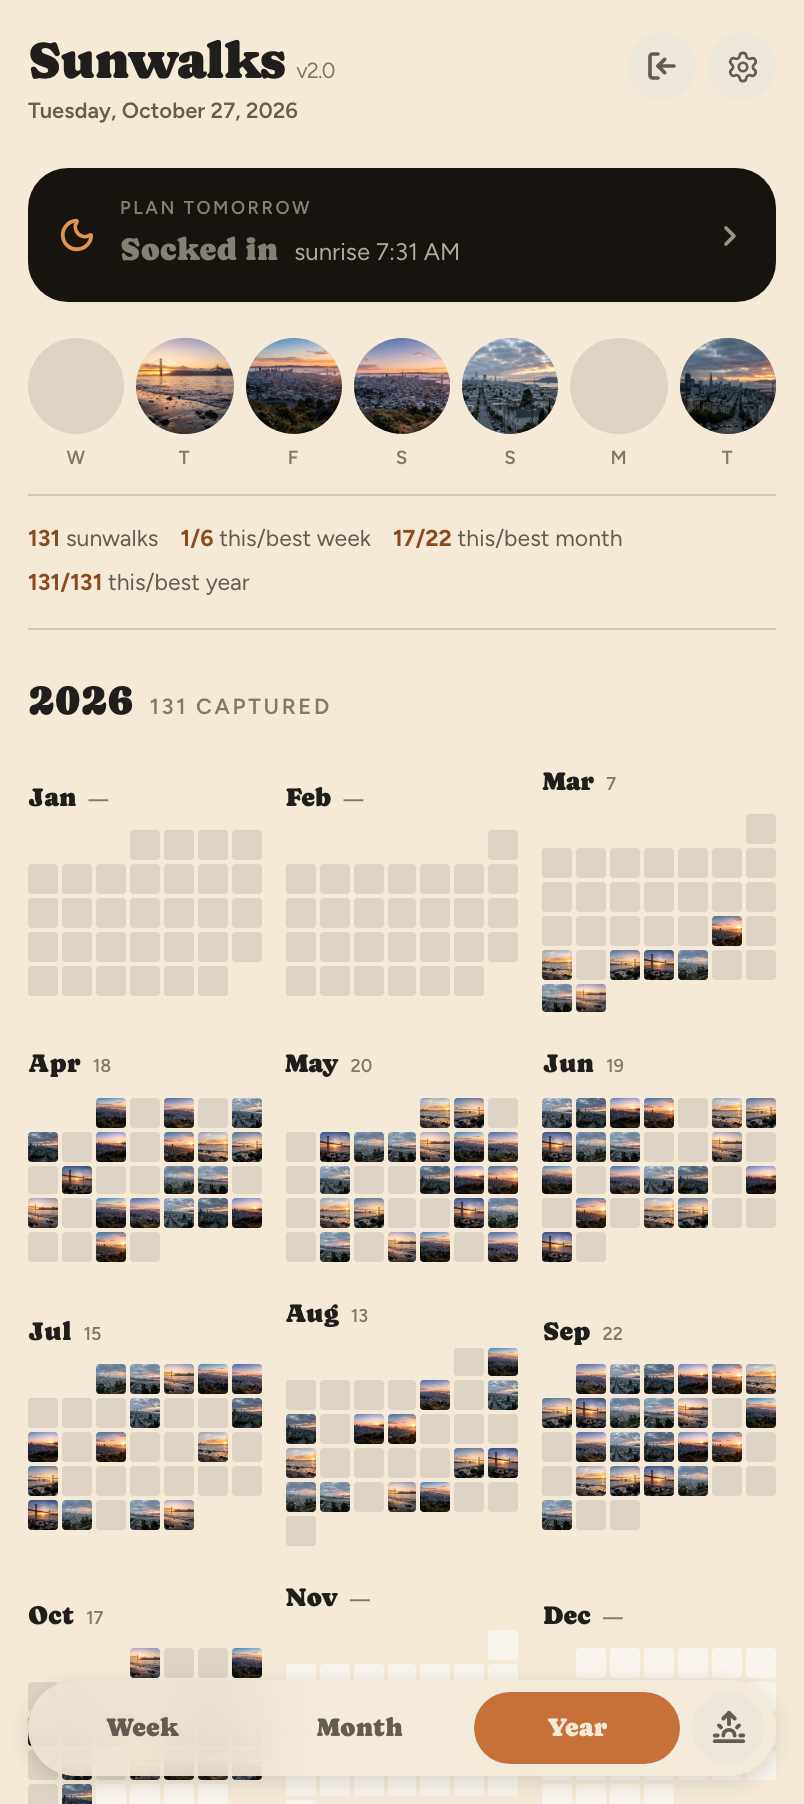
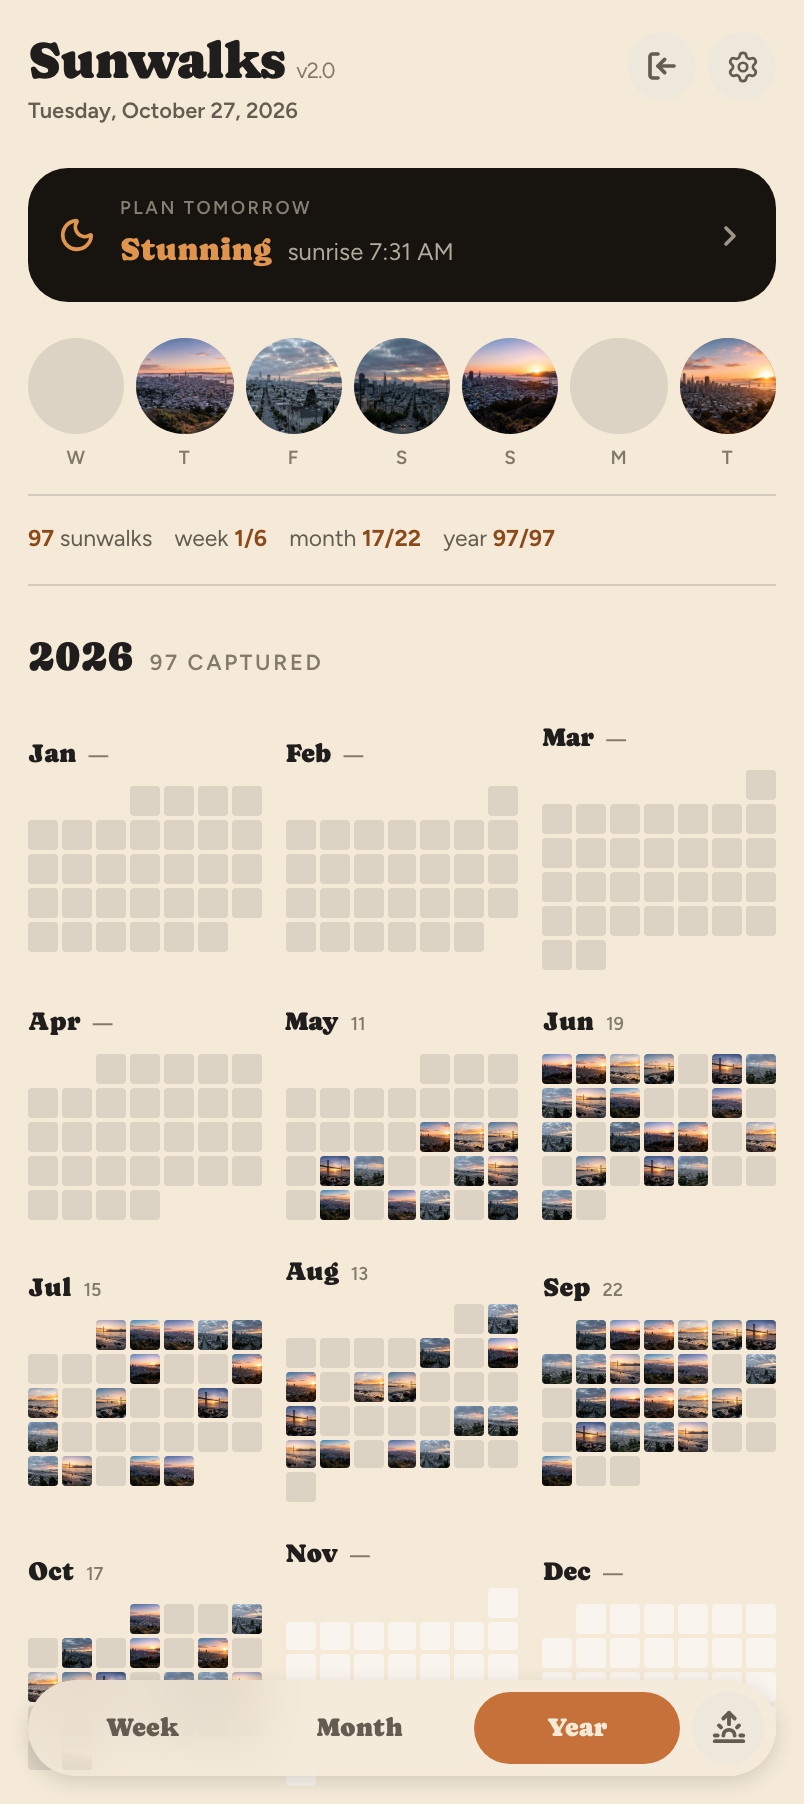
Rename verdicts to Stunning, Nice, Clear, Foggy and Wet
The planning view is moving from "is it worth going out?" to "where
should I walk?", so the words now describe the sky rather than judge it:
Promising -> Stunning, Good -> Nice, Bare -> Clear, Socked in -> Foggy.
Rules and tones are unchanged.

The planning view now re-derives the verdict and reason from the cached
inputs on read, so a rule or vocabulary change applies to cached rows
immediately. Before, it served whatever was stored at fetch time, which
left stale words in the cache for up to three hours and indefinitely on
the stale-forecast fallback.

The mobile stats row leads with the period ("week 1/6") so all four
stats fit one line at phone width even with three-digit counts. The
seed covers 165 days (~97 captures) as its comment intended.

All screenshots re-captured from a production build in demo mode with
a fixed forecast week; the two planning-view mocks are now captures of
the built app too, renamed to 3c-night-stunning and 3c-night-foggy. sample-photos --check
now skips tracked files that are deleted but not yet staged.

diff --git a/src/lib/verdict.ts b/src/lib/verdict.ts
@@ -3,7 +3,7 @@
 // (no DB/network) so this is safe to import from both server code (deriving
 // the stored verdict) and client components (looking up a tone's colour).
 
-export type VerdictWord = "Promising" | "Good" | "Bare" | "Socked in" | "Wet";
+export type VerdictWord = "Stunning" | "Nice" | "Clear" | "Foggy" | "Wet";
 
 export interface VerdictTone {
   tone: 1 | 2 | 3 | 4 | 5;
@@ -14,10 +14,10 @@ export interface VerdictTone {
 }
 
 const TONES: Record<VerdictWord, VerdictTone> = {
-  Promising: { tone: 5, fill: "#c67139", dark: "#e0954f" },
-  Good: { tone: 4, fill: "#728157", dark: "#a8b884" },
-  Bare: { tone: 3, fill: "#a19786", dark: "rgba(245,234,216,.7)" },
-  "Socked in": { tone: 2, fill: "#c0b6a5", dark: "rgba(245,234,216,.5)" },
+  Stunning: { tone: 5, fill: "#c67139", dark: "#e0954f" },
+  Nice: { tone: 4, fill: "#728157", dark: "#a8b884" },
+  Clear: { tone: 3, fill: "#a19786", dark: "rgba(245,234,216,.7)" },
+  Foggy: { tone: 2, fill: "#c0b6a5", dark: "rgba(245,234,216,.5)" },
   Wet: { tone: 1, fill: "#c0b6a5", dark: "rgba(245,234,216,.5)" },
 };
 
@@ -41,19 +41,19 @@ function lowCloudMinority(input: VerdictInput, ceiling: number): boolean {
 }
 
 export function deriveVerdict(input: VerdictInput): { word: VerdictWord; score: number } {
-  // Resolution order per PLANNING.md: Wet wins over everything, then Socked
-  // in, then the cloud bands — a colourful-looking day that's also raining
-  // is Wet, not Promising.
+  // Resolution order per PLANNING.md: Wet wins over everything, then Foggy,
+  // then the cloud bands — a colourful-looking day that's also raining is
+  // Wet, not Stunning.
   if (input.precipProbability >= 50) return { word: "Wet", score: TONES.Wet.tone };
 
-  // Only fog or a low deck socks the morning in. A total overcast made of
+  // Only fog or a low deck makes the morning Foggy. A total overcast made of
   // mid/high cloud is not grey at sunrise — the sun gets under it from the
   // horizon — so it falls through to the cloud bands.
   if (input.fogProbability >= 60 || input.cloudLow >= 80) {
-    return { word: "Socked in", score: TONES["Socked in"].tone };
+    return { word: "Foggy", score: TONES.Foggy.tone };
   }
 
-  if (input.cloudTotal < 20) return { word: "Bare", score: TONES.Bare.tone };
+  if (input.cloudTotal < 20) return { word: "Clear", score: TONES.Clear.tone };
 
   if (
     input.cloudTotal >= 30 &&
@@ -61,10 +61,10 @@ export function deriveVerdict(input: VerdictInput): { word: VerdictWord; score: 
     lowCloudMinority(input, 25) &&
     input.precipProbability < 20
   ) {
-    return { word: "Promising", score: TONES.Promising.tone };
+    return { word: "Stunning", score: TONES.Stunning.tone };
   }
 
-  return { word: "Good", score: TONES.Good.tone };
+  return { word: "Nice", score: TONES.Nice.tone };
 }
 
 function dominantBandLabel(input: VerdictInput): "High" | "Mid" {
@@ -87,7 +87,7 @@ export function buildReason(word: VerdictWord, input: VerdictInput): string {
       return input.precipProbability >= 70
         ? "Rain through the morning. Sleep in."
         : `Showers likely, ${round(input.precipProbability)}% chance. Sleep in.`;
-    case "Socked in":
+    case "Foggy":
       if (input.ceilingFt != null && (input.fogProbability >= 60 || input.cloudLow >= 80)) {
         return `Marine layer to ${round(input.ceilingFt).toLocaleString("en-US")} ft. Above it if you go high, grey if you don't.`;
       }
@@ -95,17 +95,17 @@ export function buildReason(word: VerdictWord, input: VerdictInput): string {
         return `Fog likely, ${round(input.fogProbability)}% chance. Grey start, may burn off late.`;
       }
       return `${round(input.cloudLow)}% low cloud — a solid grey lid. Little chance of colour.`;
-    case "Bare":
+    case "Clear":
       return input.cloudTotal < 8
         ? "Empty sky. Little colour, but clean silhouettes."
         : `Mostly clear, ${round(input.cloudTotal)}% cloud. Little colour, but clean silhouettes.`;
-    case "Good":
-      // Good is also where a mid/high overcast lands (Socked in is low cloud
+    case "Nice":
+      // Nice is also where a mid/high overcast lands (Foggy is low cloud
       // only), so don't call a full sky "scattered".
       return input.cloudTotal > 80
         ? `Solid ${dominantBandLabel(input).toLowerCase()} cloud at ${round(input.cloudTotal)}%. Lights up if the sun gets under it.`
         : `Scattered ${dominantBandLabel(input).toLowerCase()} cloud, warm morning.`;
-    case "Promising":
+    case "Stunning":
       return `${dominantBandLabel(input)} cloud at ${round(input.cloudTotal)}% — the kind that lights up. Clear at the horizon.`;
   }
 }

diff --git a/design_handoff_sunrise_calendar/Sunrise Calendar.dc.html b/design_handoff_sunrise_calendar/Sunrise Calendar.dc.html
@@ -1036,13 +1036,13 @@ const TODAY = { y: 2026, m: 8, d: 11 };
 
 /* Evening forecast — what you'd look at the night before */
 const FC = [
-  { m:8,d:12,cloud:45,band:'high cloud',sunrise:'6:24',first:'5:56',golden:'7:02',temp:57,feels:54,wind:'6 mph W',rain:5,fog:'Low',verdict:'Promising',line:'High cloud at 45% — the kind that lights up. Clear at the horizon.',score:5 },
-  { m:8,d:13,cloud:90,band:'low cloud',sunrise:'6:25',first:'5:57',golden:'7:03',temp:58,feels:56,wind:'9 mph WSW',rain:10,fog:'High',verdict:'Socked in',line:'Marine layer to 1,100 ft. Above it if you go high, grey if you don’t.',score:2 },
-  { m:8,d:14,cloud:15,band:'clear',sunrise:'6:26',first:'5:58',golden:'7:04',temp:55,feels:52,wind:'4 mph N',rain:0,fog:'Low',verdict:'Bare',line:'Empty sky. Little colour, but clean silhouettes.',score:3 },
-  { m:8,d:15,cloud:55,band:'high cloud',sunrise:'6:27',first:'5:59',golden:'7:05',temp:56,feels:53,wind:'7 mph W',rain:5,fog:'Low',verdict:'Promising',line:'Broken cirrus. Worth the alarm.',score:5 },
-  { m:8,d:16,cloud:35,band:'mid cloud',sunrise:'6:28',first:'6:00',golden:'7:06',temp:59,feels:57,wind:'5 mph NW',rain:0,fog:'Low',verdict:'Good',line:'Scattered mid cloud, warm morning.',score:4 },
+  { m:8,d:12,cloud:45,band:'high cloud',sunrise:'6:24',first:'5:56',golden:'7:02',temp:57,feels:54,wind:'6 mph W',rain:5,fog:'Low',verdict:'Stunning',line:'High cloud at 45% — the kind that lights up. Clear at the horizon.',score:5 },
+  { m:8,d:13,cloud:90,band:'low cloud',sunrise:'6:25',first:'5:57',golden:'7:03',temp:58,feels:56,wind:'9 mph WSW',rain:10,fog:'High',verdict:'Foggy',line:'Marine layer to 1,100 ft. Above it if you go high, grey if you don’t.',score:2 },
+  { m:8,d:14,cloud:15,band:'clear',sunrise:'6:26',first:'5:58',golden:'7:04',temp:55,feels:52,wind:'4 mph N',rain:0,fog:'Low',verdict:'Clear',line:'Empty sky. Little colour, but clean silhouettes.',score:3 },
+  { m:8,d:15,cloud:55,band:'high cloud',sunrise:'6:27',first:'5:59',golden:'7:05',temp:56,feels:53,wind:'7 mph W',rain:5,fog:'Low',verdict:'Stunning',line:'Broken cirrus. Worth the alarm.',score:5 },
+  { m:8,d:16,cloud:35,band:'mid cloud',sunrise:'6:28',first:'6:00',golden:'7:06',temp:59,feels:57,wind:'5 mph NW',rain:0,fog:'Low',verdict:'Nice',line:'Scattered mid cloud, warm morning.',score:4 },
   { m:8,d:17,cloud:100,band:'rain',sunrise:'6:29',first:'6:01',golden:'7:07',temp:60,feels:58,wind:'14 mph S',rain:65,fog:'Med',verdict:'Wet',line:'Rain through the morning. Sleep in.',score:1 },
-  { m:8,d:18,cloud:60,band:'high cloud',sunrise:'6:30',first:'6:02',golden:'7:08',temp:57,feels:54,wind:'8 mph W',rain:15,fog:'Low',verdict:'Good',line:'Thickening from the west, but colour first.',score:4 }
+  { m:8,d:18,cloud:60,band:'high cloud',sunrise:'6:30',first:'6:02',golden:'7:08',temp:57,feels:54,wind:'8 mph W',rain:15,fog:'Low',verdict:'Nice',line:'Thickening from the west, but colour first.',score:4 }
 ];
 const VANTAGE = { name:'Telegraph Hill', walk:'12 min uphill', azimuth:'Sun clears the ridge at 76° ENE', why:'Highest thing east of you — above the layer if it rolls in.' };
 

diff --git a/src/components/calendar/StatsLine.tsx b/src/components/calendar/StatsLine.tsx
@@ -2,18 +2,21 @@ import type { Stats } from "@/lib/types";
 import { RollingNumber } from "./RollingNumber";
 import styles from "./StatsLine.module.css";
 
+// Period first ("week 1/6") so all four fit one line at phone width even
+// with three-digit counts; the web rail has room for "this/best week". The
+// aria-labels spell out what the slash means.
 export function StatsLine({ stats, animate }: { stats: Stats; animate?: boolean }) {
   return (
     <div className={styles.line}>
       <span><b><RollingNumber value={stats.total} animate={animate} /></b> sunwalks</span>
-      <span>
-        <b><RollingNumber value={stats.thisWeek} animate={animate} />/<RollingNumber value={stats.bestWeek} animate={animate} /></b> this/best week
+      <span aria-label={`${stats.thisWeek} this week, best ${stats.bestWeek}`}>
+        week <b><RollingNumber value={stats.thisWeek} animate={animate} />/<RollingNumber value={stats.bestWeek} animate={animate} /></b>
       </span>
-      <span>
-        <b><RollingNumber value={stats.thisMonth} animate={animate} />/<RollingNumber value={stats.bestMonth} animate={animate} /></b> this/best month
+      <span aria-label={`${stats.thisMonth} this month, best ${stats.bestMonth}`}>
+        month <b><RollingNumber value={stats.thisMonth} animate={animate} />/<RollingNumber value={stats.bestMonth} animate={animate} /></b>
       </span>
-      <span>
-        <b><RollingNumber value={stats.thisYear} animate={animate} />/<RollingNumber value={stats.bestYear} animate={animate} /></b> this/best year
+      <span aria-label={`${stats.thisYear} this year, best ${stats.bestYear}`}>
+        year <b><RollingNumber value={stats.thisYear} animate={animate} />/<RollingNumber value={stats.bestYear} animate={animate} /></b>
       </span>
     </div>
   );

diff --git a/src/lib/planning.ts b/src/lib/planning.ts
@@ -9,7 +9,7 @@ import { forecastDays } from "@/db/schema";
 import { addDays, dayKeyToDate, todayDayKey } from "./dates";
 import { env } from "./env";
 import { fetchForecastDays, type RawDayForecast } from "./weather";
-import { deriveVerdict, buildReason, type VerdictWord } from "./verdict";
+import { deriveVerdict, buildReason } from "./verdict";
 import { computeTimelineWindow } from "./timeline";
 import type { PlanningDay, PlanningResponse } from "./types";
 
@@ -29,7 +29,12 @@ export function planningStartDate(now: Date = new Date()): string {
 
 type ForecastRow = typeof forecastDays.$inferSelect;
 
+// The verdict is re-derived from the stored inputs rather than read back,
+// so a change to the rules or the vocabulary applies to cached rows at once
+// instead of after the next refresh (and the stale-forecast fallback never
+// serves a word the client no longer knows).
 function toPlanningDay(row: ForecastRow): PlanningDay {
+  const { word, score } = deriveVerdict(row);
   return {
     date: row.date,
     sunrise: row.sunrise.toISOString(),
@@ -46,9 +51,9 @@ function toPlanningDay(row: ForecastRow): PlanningDay {
     precipProbability: row.precipProbability,
     fogProbability: row.fogProbability,
     ceilingFt: row.ceilingFt,
-    verdict: row.verdict as VerdictWord,
-    score: row.score,
-    reason: row.reason,
+    verdict: word,
+    score,
+    reason: buildReason(word, row),
   };
 }
 

diff --git a/scripts/prepare-sample-photos.ts b/scripts/prepare-sample-photos.ts
@@ -10,7 +10,7 @@
 // week view's tall card are centre crops. scripts/seed.ts cycles through
 // PHOTO_COUNT of them and records FULL's dimensions on each seeded photo.
 import { execFileSync } from "node:child_process";
-import { mkdirSync, readdirSync, readFileSync } from "node:fs";
+import { existsSync, mkdirSync, readdirSync, readFileSync } from "node:fs";
 import path from "node:path";
 import sharp from "sharp";
 
@@ -52,7 +52,7 @@ async function build(sourceDir: string) {
 async function check() {
   const tracked = execFileSync("git", ["ls-files", "-z"], { encoding: "utf8" })
     .split("\0")
-    .filter((f) => AUDIT_EXT.test(f));
+    .filter((f) => AUDIT_EXT.test(f) && existsSync(f)); // skip deleted-but-unstaged files
   const flagged: string[] = [];
   for (const file of tracked) {
     const meta = await sharp(readFileSync(file)).metadata();

diff --git a/src/db/schema.ts b/src/db/schema.ts
@@ -66,8 +66,9 @@ export const shareLinks = pgTable(
 /**
  * The planning view's forecast cache — one row per calendar day, keyed on
  * the owner's fixed home coordinates. Verdict/score/reason are derived
- * server-side at fetch time (see lib/verdict.ts) so the phone and web view
- * can never disagree about whether a morning is Promising.
+ * server-side (see lib/verdict.ts) so the phone and web view can never
+ * disagree about whether a morning is Stunning. They're stored for
+ * reference, but lib/planning.ts re-derives them from the inputs on read.
  */
 export const forecastDays = pgTable("forecast_days", {
   date: date("date", { mode: "string" }).primaryKey(),

diff --git a/scripts/seed.ts b/scripts/seed.ts
@@ -9,7 +9,7 @@ import { addDays, localDayKey } from "../src/lib/dates";
 import { env } from "../src/lib/env";
 
 const PHOTO_COUNT = 12;
-const HISTORY_DAYS = 220; // first-photo date is HISTORY_DAYS ago
+const HISTORY_DAYS = 165; // first-photo date is HISTORY_DAYS ago
 const CAPTURE_RATE = 0.6; // ~99 captured days out of ~165 mornings tried
 
 async function main() {

diff --git a/design_handoff_sunrise_calendar/PLANNING.md b/design_handoff_sunrise_calendar/PLANNING.md
@@ -111,26 +111,28 @@ Under the row, the drift line: "Sunrise drifts 6:24 → 6:30 across the week. Ta
 
 ## Verdicts
 
+> **Renamed after launch:** the words were originally Promising, Good, Bare and Socked in. They became Stunning, Nice, Clear and Foggy when the planning view's job changed from "is it worth going out?" to "where should I walk?". The rules and tones are unchanged.
+
 The verdict is a single word derived server-side, plus a tone that colours the word, the cloud knob and the week-ahead dot. Never show the numeric score, and never show a star rating.
 
 | Word | When | Tone | Colours (`fill` / `dark` on the dark ground) |
 | --- | --- | --- | --- |
-| **Promising** | 30–70% cloud, mostly mid/high, horizon clear, rain < 20%, fog not high | 5 | `--color-accent` #c67139 / `#e0954f` |
-| **Good** | 20–80% cloud, mid/high, rain < 30% | 4 | `--color-accent-2-600` / `#a8b884` |
-| **Bare** | under 20% cloud — clean sky, little colour, good silhouettes | 3 | `--color-neutral-500` / `rgba(245,234,216,.7)` |
-| **Socked in** | 80%+ **low** cloud, or fog probability high | 2 | `--color-neutral-400` / `rgba(245,234,216,.5)` |
+| **Stunning** | 30–70% cloud, mostly mid/high, horizon clear, rain < 20%, fog not high | 5 | `--color-accent` #c67139 / `#e0954f` |
+| **Nice** | 20–80% cloud, mid/high, rain < 30% | 4 | `--color-accent-2-600` / `#a8b884` |
+| **Clear** | under 20% cloud — clean sky, little colour, good silhouettes | 3 | `--color-neutral-500` / `rgba(245,234,216,.7)` |
+| **Foggy** | 80%+ **low** cloud, or fog probability high | 2 | `--color-neutral-400` / `rgba(245,234,216,.5)` |
 | **Wet** | rain probability 50%+ | 1 | `--color-neutral-400` / `rgba(245,234,216,.5)` |
 
-Resolution order: **Wet** wins over everything, then **Socked in**, then the cloud-band bands. A day inside the colour band that is also raining is Wet — the sky may be interesting but the morning is not.
+Resolution order: **Wet** wins over everything, then **Foggy**, then the cloud-band bands. A day inside the colour band that is also raining is Wet — the sky may be interesting but the morning is not.
 
 Tone colours carry no information the word does not; the word is the accessible signal. Terracotta only ever means "worth getting up for", so it must not be used decoratively anywhere on this screen.
 
 **Reason line** — one or two sentences, written from the same inputs, in the app's voice: plain, specific, never hedged into uselessness, never gamified. What the prototype ships with, as the tone reference:
 
-- Promising — "High cloud at 45% — the kind that lights up. Clear at the horizon."
-- Socked in — "Marine layer to 1,100 ft. Above it if you go high, grey if you don't."
-- Bare — "Empty sky. Little colour, but clean silhouettes."
-- Good — "Scattered mid cloud, warm morning."
+- Stunning — "High cloud at 45% — the kind that lights up. Clear at the horizon."
+- Foggy — "Marine layer to 1,100 ft. Above it if you go high, grey if you don't."
+- Clear — "Empty sky. Little colour, but clean silhouettes."
+- Nice — "Scattered mid cloud, warm morning."
 - Wet — "Rain through the morning. Sleep in."
 
 Generate these from a small set of templates keyed on the deciding factor (cloud level + band, fog ceiling, rain), not from an open-ended model — the voice matters more than the variety, and "Sleep in." is the app being honest, not funny.
@@ -151,7 +153,7 @@ Per day, seven days out:
 ```
 
 - **Source**: Open-Meteo covers all of it without a key — hourly `cloudcover_low/mid/high`, `temperature_2m`, `apparent_temperature`, `windspeed_10m`, `precipitation_probability`, `visibility`, plus daily `sunrise`. Sample the hour containing sunrise (interpolate if you want to be precise). Civil twilight and the 6°-altitude golden-hour end are solar-position maths, not an API call — compute them from lat/long and date.
-- **Derive the verdict on the server**, next to the ingest that already computes `stats` — the phone and the web view must never disagree about whether tomorrow is Promising.
+- **Derive the verdict on the server**, next to the ingest that already computes `stats` — the phone and the web view must never disagree about whether tomorrow is Stunning.
 - **Cadence**: refresh when the view opens if the cached forecast is older than 3 hours, plus once in the evening (around 20:00 local) so the entry row is current at bedtime. A forecast is a forecast — nothing here needs to be live.
 - **Location**: the owner's home coordinates, set once, from the calendar's existing settings. This screen has no location UI.
 
@@ -180,7 +182,7 @@ Nothing pulses, nothing counts up. The screen is read in the dark, half asleep.
 
 ## Accessibility
 
-- The verdict word — never colour alone — carries the meaning, in the header, the entry row and (via the day number + dot) the week-ahead row. Give each week-ahead tile an accessible label like "Friday 14, Bare".
+- The verdict word — never colour alone — carries the meaning, in the header, the entry row and (via the day number + dot) the week-ahead row. Give each week-ahead tile an accessible label like "Friday 14, Clear".
 - All five tone `dark` values clear 4.5:1 on `#17140f`; the 42px verdict has margin to spare.
 - The whole screen is dark by design and does not follow the system light/dark setting — the calendar stays cream, this stays near-black. If the platform demands it, honour "increase contrast" by lifting the card fills from `.07` to `.12` and the body text from `.78` to `.9`.
 - Respect reduced-motion: cross-fades become instant swaps; the tick tween is dropped.
@@ -191,6 +193,6 @@ In `screenshots/`, captured at 2×:
 
 | File | State |
 | --- | --- |
-| `3c-night-promising.png` | Planning view, tomorrow, verdict "Promising" — the default state |
-| `3c-night-socked-in.png` | Planning view re-targeted to Thursday from the week-ahead row, verdict "Socked in" — shows the two-line reason at its reserved height and a 90% cloud knob past the band |
+| `3c-night-stunning.png` | Planning view, tomorrow, verdict "Stunning" — the default state |
+| `3c-night-foggy.png` | Planning view re-targeted to Thursday from the week-ahead row, verdict "Foggy" — shows the two-line reason at its reserved height and a 90% cloud knob past the band |
 | `3c-calendar-entry.png` | The calendar with the dark "Plan tomorrow" entry row |

diff --git a/design_handoff_sunrise_calendar/README.md b/design_handoff_sunrise_calendar/README.md
@@ -174,7 +174,7 @@ All from the Organic design system — `styles.css` is in this bundle; link it o
 
 In `screenshots/`, captured at 2×.
 
-> **Public-release note:** the original prototype captures showed the owner's personal photos and account details. Everything here except the two `3c-night-*` files was re-captured from the built app in demo mode with the sample photos, so these show the shipped implementation rather than the prototype; the states listed are the same.
+> **Public-release note:** the original prototype captures showed the owner's personal photos and account details. Everything here was re-captured from the built app in demo mode with the sample photos, so these show the shipped implementation rather than the prototype; the states listed are the same. The planning-view captures use the renamed verdicts (see `PLANNING.md` §Verdicts).
 
 | File | State |
 | --- | --- |
@@ -188,8 +188,8 @@ In `screenshots/`, captured at 2×.
 | `2a-mobile-landscape-photo.png` | Landscape photo view, chrome visible |
 | `1b-web-month.png` | Web, month zoom with the stats rail |
 | `1c-first-run.png` | First run / album picker |
-| `3c-night-promising.png` | Planning view, tomorrow — see `PLANNING.md` |
-| `3c-night-socked-in.png` | Planning view re-targeted to Thursday |
+| `3c-night-stunning.png` | Planning view, tomorrow — see `PLANNING.md` |
+| `3c-night-foggy.png` | Planning view re-targeted to Thursday |
 | `3c-calendar-entry.png` | Calendar with the "Plan tomorrow" entry row |
 
 ## Files in this bundle

diff --git a/README.md b/README.md
@@ -29,8 +29,8 @@ tomorrow's forecast so you can plan your walk accordingly.
   is open.
 - **Planning view** for tomorrow morning: first light, sunrise and end of golden
   hour (solar maths via `suncalc`), cloud layers and conditions from
-  [Open-Meteo](https://open-meteo.com/), and a one-word verdict (*Promising*,
-  *Good*, *Bare*, *Socked in*, *Wet*) with a week-ahead strip.
+  [Open-Meteo](https://open-meteo.com/), and a one-word verdict (*Stunning*,
+  *Nice*, *Clear*, *Foggy*, *Wet*) with a week-ahead strip.
 - **Unlisted share link.** Anyone with the URL gets a read-only, `noindex`
   copy of the calendar. You can revoke it or generate a new one.
 - **Installable PWA**, tuned for Android/Chrome: safe-area insets, the

diff --git a/AGENTS.md b/AGENTS.md
@@ -1,6 +1,6 @@
 <!-- BEGIN:nextjs-agent-rules -->
 
-# This is NOT the Next.js you know
+## This is NOT the Next.js you know
 
 This version has breaking changes — APIs, conventions, and file structure may all differ from your training data. Read the relevant guide in `node_modules/next/dist/docs/` (resolved from this file's directory; in monorepos the `next` package may not be visible from the repo root) before writing any code. Heed deprecation notices.
 
